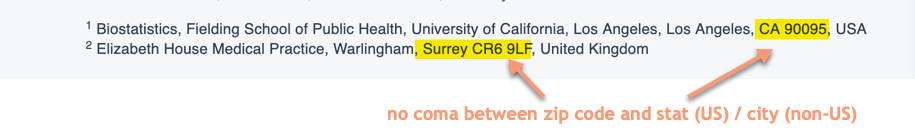
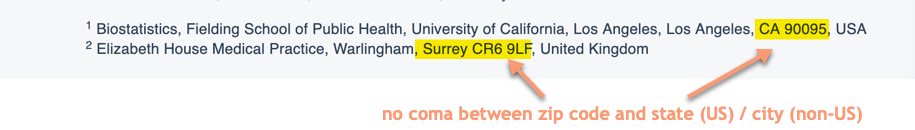
new add

Changed region(s): [[0.3978, 0.8, 0.9486, 0.9538]]

diff --git a/research_papers_html.rst b/research_papers_html.rst
@@ -39,7 +39,6 @@ For other Latin terms either italics or :ref:`plain text<plain_text>` is accepta
 .. image:: /_static/aff_text_zip_state_city.png
    :alt: No comma between zip code and state (US) / city (non-US)
 
-
 2.5. Check that each affiliation number has only one complete affiliation. |br|
 One affiliation – one number.
 
@@ -47,12 +46,12 @@ One affiliation – one number.
 	
 All acceptable combinations of “Current/Present address” are depicted on the screenshot below: 
 
-.. image:: /_static/pic1_curr_pres_address.png
+.. image:: /_static/aff_present_address.png
    :alt: Current/Present address
 
 2.7. Check that only commas are used to separate parts of affiliations (i.e. department, institution, etc.).
 
-.. image:: /_static/pic2_aff_format.png
+.. image:: /_static/pic2_pars.png
    :alt: Affiliation format
 
 2.8. Check that first word of Author Notes starts with a capital letter.
